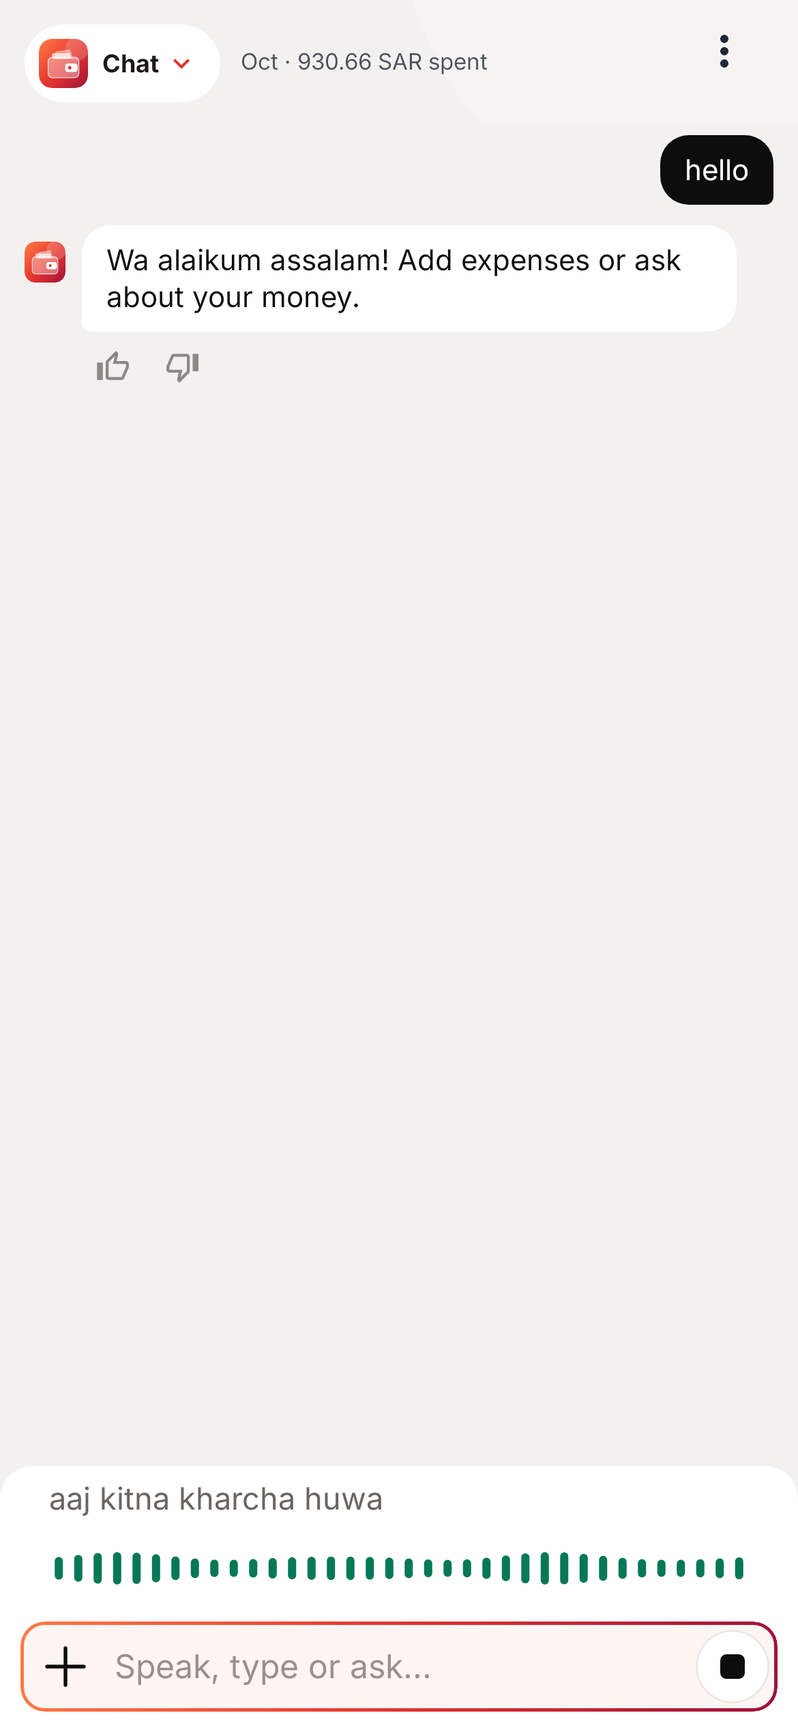
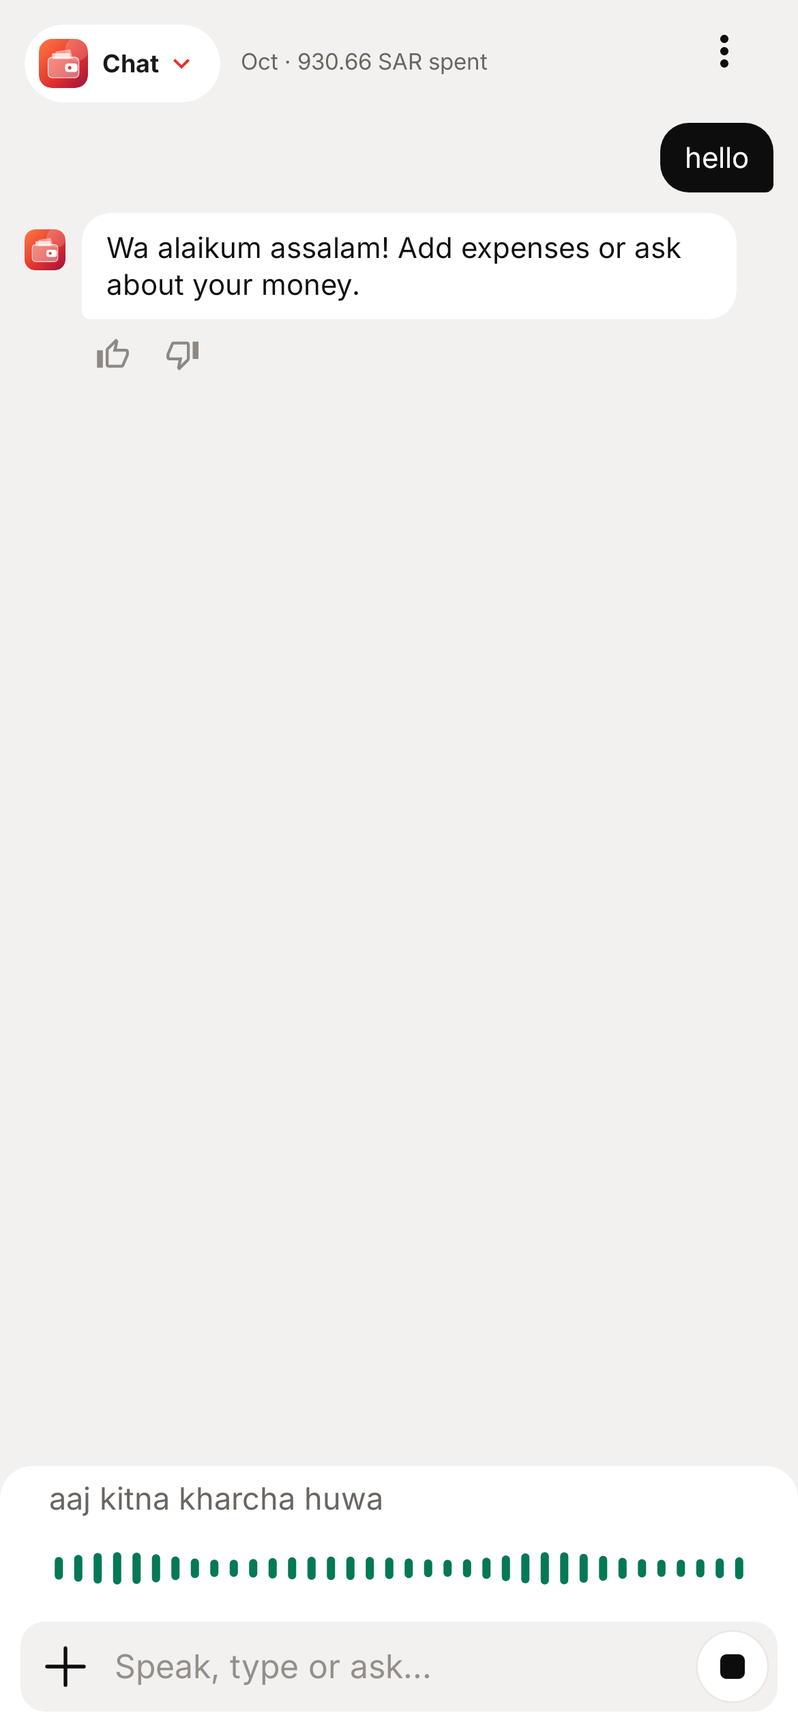
Sync with main (v390): continue from the latest release
Claude-Session: https://claude.ai/code/session_015NizBa7CYKAMR9mMWSWCL6

Changed region(s): [[0.1231, 0.0624, 0.9846, 0.2184], [0.0308, 0.1248, 0.0923, 0.1872], [0.9538, 0.936, 0.9846, 0.9984]]

diff --git a/app/src/main/java/com/bolkhata/app/MainActivity.kt b/app/src/main/java/com/bolkhata/app/MainActivity.kt
@@ -576,7 +576,7 @@ fun App(store: Store, dark: Boolean, onDark: (Boolean) -> Unit, themeName: Strin
         } else null
         val target = matched ?: if (st.keywords.isEmpty() && (latestRef || st.mentionsMoney)) candidates.firstOrNull() else null
         if (target == null) {
-            toast("I couldn't match that payment to an entry. Mention the item or person, e.g. \"payment for kachi eint not received\".")
+            toast("I couldn't match that payment to an entry. Mention the item or person, e.g. \"payment for the bricks not received\".")
             return true
         }
         val who = target.person.ifBlank { st.person }
@@ -636,6 +636,16 @@ fun App(store: Store, dark: Boolean, onDark: (Boolean) -> Unit, themeName: Strin
     val placeAfter = remember { arrayOf<Long?>(null) }
 
     fun handleTextSafely(text: String, clock: Understand.Clock? = null, original: String? = null) {
+        // "ghar ka bijli 3000": the entry goes to the book it names, without switching books.
+        Books.route(text, store.businesses())?.let { (id, rest) ->
+            if (id == store.business) { handleTextSafely(rest, clock, original); return }
+            val name = store.businesses().firstOrNull { it.first == id }?.second ?: "that book"
+            val found = Parser.parse(rest).entries
+            if (found.isEmpty()) { toast("Open $name to add this one"); return }
+            store.saveFor(id, found + store.loadFor(id))
+            toast("✓ Saved in $name: " + found.joinToString(", ") { understoodLine(it, currency) })
+            return
+        }
         // "Other wali entries theek karo": the app sorts them itself (the local engine only fixed the wording).
         if (Recat.isCommand(text)) { openRecat(); return }
         // A vague "change an entry" is not enough information to edit safely; ask what to change.
@@ -684,7 +694,7 @@ fun App(store: Store, dark: Boolean, onDark: (Boolean) -> Unit, themeName: Strin
         }
         if (Edits.looksLikeEdit(text) && entries.isNotEmpty()) {
             // The AI never changes entries itself: if the app's own reader couldn't place it, say so.
-            flash = Flash("Which entry? e.g. \"last entry 400 karo\" or \"aaj ki sari entries delete karo\"", Flash.Kind.ANSWER)
+            flash = Flash("Which entry? e.g. \"make the last entry 400\" or \"delete today's entries\"", Flash.Kind.ANSWER)
             return
         }
         val after = placeAfter[0].also { placeAfter[0] = null }
@@ -916,7 +926,7 @@ fun App(store: Store, dark: Boolean, onDark: (Boolean) -> Unit, themeName: Strin
                 }
             }
             "delete" -> {
-                if (q.isEmpty) return "Which entries? e.g. \"aaj ki sari entries delete karo\""
+                if (q.isEmpty) return "Which entries? e.g. \"delete today's entries\""
                 val hits = scoped(Query.select(entries, q))
                 if (hits.isEmpty()) return "Nothing found (${Query.label(q)})."
                 clarifyMultiple("delete", hits)?.let { return it }
@@ -928,7 +938,7 @@ fun App(store: Store, dark: Boolean, onDark: (Boolean) -> Unit, themeName: Strin
                 if (q.cats == setOf(Cat.OTHER) && (f.set["category"].isNullOrBlank() || f.set["category"].equals("expense", true))) {
                     openRecat(); return null
                 }
-                if (q.isEmpty) return "Which entry? e.g. \"laptop wali entry\""
+                if (q.isEmpty) return "Which entry? e.g. \"the laptop entry\""
                 if (f.set.isEmpty()) return runFixed(NativeChatEngine.Fixed("", "reread", "", "", q), said, inChat)
                 val hits = scoped(Query.select(entries, q))
                 if (hits.isEmpty()) return "Nothing found (${Query.label(q)})."
@@ -968,8 +978,8 @@ fun App(store: Store, dark: Boolean, onDark: (Boolean) -> Unit, themeName: Strin
                 }
                 // "Ye sari Abrar D360 ka khata bana do": these records become that khata's lene-dene, in date order,
                 // each one a loan or a repayment by the running balance (money out = they owe me, money in = back / I owe).
-                val name = f.set["person"]?.trim()?.takeIf { it.isNotEmpty() } ?: f.payer.ifBlank { return "Which khata? e.g. \"Abrar D360 ka khata\"" }
-                if (q.isEmpty) return "Which entries? e.g. \"d360 wali entries\""
+                val name = f.set["person"]?.trim()?.takeIf { it.isNotEmpty() } ?: f.payer.ifBlank { return "Which account? e.g. \"Hamid's account\"" }
+                if (q.isEmpty) return "Which entries? e.g. \"the D360 entries\""
                 val hits = scoped(Query.select(entries, q))
                     .filter { !it.person.equals(name, true) }.sortedWith(compareBy<Entry> { it.date }.thenBy { it.createdAt })
                 if (hits.isEmpty()) return "Nothing found (${Query.label(q)})."
@@ -993,10 +1003,10 @@ fun App(store: Store, dark: Boolean, onDark: (Boolean) -> Unit, themeName: Strin
             }
             "paid_by" -> {
                 // "Aaj jo khana khaya us ke paise Nadeem ne diye": find that meal and make it "Nadeem paid".
-                val payer = f.payer.ifBlank { return "Who paid? e.g. \"nadeem ne pay kiya\"" }
+                val payer = f.payer.ifBlank { return "Who paid? e.g. \"Nadeem paid\"" }
                 val q2 = Query.Filter(q.from, q.to, setOf(Type.KHARCHA), emptyList(), q.cats, q.items, q.min, q.max, q.last, q.noPeople, q.notItems, q.ids, q.createdFrom, q.createdTo)
                 if (q2.from == null && q2.to == null && q2.createdFrom == null && q2.createdTo == null &&
-                    q2.cats.isEmpty() && q2.items.isEmpty() && q2.ids.isEmpty()) return "Which one? e.g. \"aaj ka khana\""
+                    q2.cats.isEmpty() && q2.items.isEmpty() && q2.ids.isEmpty()) return "Which one? e.g. \"today's food\""
                 val hits = scoped(Query.select(entries, q2))
                 // The one that mentions the payer comes first ("Khana with nadeem").
                 val candidates = hits.filter { it.note.contains(payer, true) }.ifEmpty { hits }
@@ -1023,7 +1033,7 @@ fun App(store: Store, dark: Boolean, onDark: (Boolean) -> Unit, themeName: Strin
             }
             "reread" -> {
                 // "Galat hai, theek karo": the app reads each entry's own note again with what it knows now.
-                if (q.isEmpty) return "Which entry? e.g. \"laptop wali entry\""
+                if (q.isEmpty) return "Which entry? e.g. \"the laptop entry\""
                 val hits = scoped(Query.select(entries, q))
                 if (hits.isEmpty()) return "Nothing found (${Query.label(q)})."
                 clarifyMultiple("re-read", hits)?.let { return it }
@@ -1038,7 +1048,7 @@ fun App(store: Store, dark: Boolean, onDark: (Boolean) -> Unit, themeName: Strin
                         list[0].item == old.item && list[0].amount == old.amount && list[0].person == old.person
                     if (list.isEmpty() || same) null else old to list
                 }
-                if (swaps.isEmpty()) return "Looks right to the app. Say what should change, e.g. \"laptop nahi khana tha\"."
+                if (swaps.isEmpty()) return "Looks right to the app. Say what should change, e.g. \"it was food, not laptop\"."
                 val before = entries
                 val gone = swaps.map { it.first.id }.toSet()
                 save(swaps.flatMap { it.second } + entries.filter { it.id !in gone })
@@ -2179,7 +2189,8 @@ fun App(store: Store, dark: Boolean, onDark: (Boolean) -> Unit, themeName: Strin
                     entries, currency, onMenu = { openMenu() }, business = businessName, onBusiness = { pickingBusiness = true },
                     onOpen = { p -> partyOpen = p.name; activeLedgerPerson = p.name },
                     onReport = { reportStart = it; tab = Tab.REPORTS },
-                    onAdd = { trade = it }, onEdit = { editing = it }
+                    onAdd = { trade = it }, onEdit = { editing = it },
+                    made = { store.made(it) }, onSetMade = { m, qty -> store.setMade(m, qty) }
                 )
                 tab == Tab.CASHBOOK -> CashBookScreen(
                     entries, currency, onMenu = { openMenu() }, business = businessName, onBusiness = { pickingBusiness = true },
@@ -2901,7 +2912,9 @@ fun App(store: Store, dark: Boolean, onDark: (Boolean) -> Unit, themeName: Strin
             current = store.business, onBack = { pickingBusiness = false }, onPick = { open(it) },
             onAdd = { open(store.addBusiness(it)) },
             onRename = { id, n -> store.renameBusiness(id, n); if (id == store.business) businessName = n; businessTick++ },
-            onDelete = { id -> val wasOpen = id == store.business; store.deleteBusiness(id); if (wasOpen) open("") else businessTick++ }
+            onDelete = { id -> val wasOpen = id == store.business; store.deleteBusiness(id); if (wasOpen) open("") else businessTick++ },
+            totals = remember(businessTick, entries) { store.businesses().associate { (id, _) -> id to monthCash(if (id == store.business) entries else store.loadFor(id)) } },
+            currency = currency
         )
     }
 

diff --git a/app/src/main/java/com/bolkhata/app/Ui.kt b/app/src/main/java/com/bolkhata/app/Ui.kt
@@ -15,6 +15,7 @@ import androidx.compose.material.icons.outlined.Category
 import androidx.compose.material.icons.outlined.Chair
 import androidx.compose.material.icons.outlined.Handshake
 import androidx.compose.material.icons.outlined.Home
+import androidx.compose.material.icons.outlined.Factory
 import androidx.compose.material.icons.outlined.Inventory2
 import androidx.compose.material.icons.outlined.LocalGasStation
 import androidx.compose.material.icons.outlined.MedicalServices
@@ -43,6 +44,7 @@ import androidx.compose.ui.geometry.Offset
 import androidx.compose.ui.geometry.Size
 import androidx.compose.ui.graphics.Brush
 import androidx.compose.ui.graphics.Color
+import androidx.compose.ui.graphics.luminance
 import androidx.compose.ui.graphics.StrokeCap
 import androidx.compose.ui.graphics.drawscope.Stroke
 import androidx.compose.ui.graphics.drawscope.DrawScope
@@ -160,6 +162,7 @@ fun catColor(c: Cat): Color = when (c) {
     Cat.ASSETS -> Color(0xFF7C3AED)
     Cat.SALES -> Color(0xFF16A34A)
     Cat.STOCK -> Color(0xFF0891B2)
+    Cat.PRODUCTION -> Color(0xFFB45309)
     Cat.OTHER -> Color(0xFF94A3B8)
 }
 
@@ -195,7 +198,8 @@ fun BolTheme(dark: Boolean, content: @Composable () -> Unit) {
         onPrimaryContainer = Color(0xFFD1FAE5),
         secondaryContainer = Color(0xFF064E3B),
         onSecondaryContainer = Color(0xFFD1FAE5),
-        background = Color(0xFF0F0F0F),
+        // A slate-grey page, so the dark cards stand out on it.
+        background = Color(0xFF2A2F36),
         surface = Color(0xFF181818),
         surfaceVariant = Color(0xFF262626),
         onSurfaceVariant = Color(0xFFA3A3A3),
@@ -493,6 +497,7 @@ fun catIcon(c: Cat): ImageVector = when (c) {
     Cat.ASSETS -> Icons.Outlined.Sell
     Cat.SALES -> Icons.Outlined.ReceiptLong
     Cat.STOCK -> Icons.Outlined.Inventory2
+    Cat.PRODUCTION -> Icons.Outlined.Factory
     Cat.OTHER -> Icons.Outlined.Category
 }
 
@@ -669,7 +674,7 @@ fun GlassLogo(size: Dp, modifier: Modifier = Modifier, onBand: Boolean = false) 
 }
 
 /**
- * The glass edge of a field or chip, as in the mock-up: a thin border in the theme's glass colours over a faint
+ * The glass edge of a field, as in the mock-up: a thin border in the theme's glass colours over a faint
  * tint of them (light pink on Red).
  */
 @Composable
@@ -679,9 +684,11 @@ fun Modifier.glassEdge(shape: androidx.compose.ui.graphics.Shape, width: Dp = 1.
     return this.clip(shape).background(fill, shape).border(width, Brush.linearGradient(c), shape)
 }
 
-/** A chosen chip: filled with the theme's glass colours (white text on it). */
+/** The chat field and search box, as in the Claude app: a soft cream fill with a hairline warm-grey edge. */
 @Composable
-fun Modifier.glassFill(shape: androidx.compose.ui.graphics.Shape): Modifier {
-    val c = glassColors(LocalHeader.current)
-    return this.shadow(2.dp, shape).clip(shape).background(Brush.linearGradient(0f to c[0], 0.55f to c[1], 1f to c[2]), shape)
+fun Modifier.fieldEdge(shape: androidx.compose.ui.graphics.Shape): Modifier {
+    val light = MaterialTheme.colorScheme.background.luminance() > 0.5f
+    val fill = if (light) Color(0xFFFBFAF8) else MaterialTheme.colorScheme.surface
+    val edge = if (light) Color(0xFFDCD6CF) else MaterialTheme.colorScheme.outlineVariant
+    return this.clip(shape).background(fill, shape).border(1.dp, edge, shape)
 }

diff --git a/app/src/main/java/com/bolkhata/app/Parser.kt b/app/src/main/java/com/bolkhata/app/Parser.kt
@@ -23,6 +23,11 @@ object Parser {
     /** Checked in this order; the first rule that matches wins. */
     private val rules = listOf(
         r(Cat.GHAR, "Sent home", "ghar bhej", "bheje", "bheja", "bhejay", "bhejy", "bheji", "send home", "sent home", "بھیجے", "بھیجا"),
+        // A brick kiln's (or any maker's) costs go to Production, under the step they paid for.
+        r(Cat.PRODUCTION, "Moulding", "thapai", "thapaai", "thapayi", "تھپائی"),
+        r(Cat.PRODUCTION, "Loading", "bharai", "bharaai", "bharayi", "بھرائی"),
+        r(Cat.PRODUCTION, "Unloading", "nikasi", "nikaasi", "nakasi", "نکاسی"),
+        r(Cat.PRODUCTION, "Fuel", "koila", "koela", "koyla", "coal", "کوئلہ"),
 
         r(Cat.EDU, "School fees", "school fee", "school fees", "tuition", "tution", "admission"),
         r(Cat.EDU, "Books & study", "books", "kitab", "kitaab", "kitabein", "copy", "stationery", "course", "college", "university", "uniform", "school"),
@@ -655,7 +660,9 @@ object Parser {
         "ka", "ki", "ke", "ko", "se", "ne", "aaj", "kal", "liya", "liye", "lia", "diya", "diye", "khaya", "khai", "khaye",
         "kiya", "kiye", "hai", "hain", "tha", "the", "thay", "riyal", "riyals", "sar", "rupay", "rupees", "and", "for",
         "from", "with", "mein", "par", "pay", "wala", "wali", "wale", "dala", "dali", "bheja", "bheje", "liye", "mila",
-        "mile", "sath", "saath", "mera", "meri", "mere", "apna", "apni", "today", "yesterday", "date"
+        "mile", "sath", "saath", "mera", "meri", "mere", "apna", "apni", "today", "yesterday", "date",
+        // How it was paid and how much: never what was bought ("cash" once learned as car brakes made every cash entry Transport).
+        "cash", "naqad", "nakad", "naqd", "nakd", "lakh", "lac", "hazar", "hazaar", "thousand", "hundred", "sau"
     )
 
     /** Words from a note worth remembering for a category ("10 ki shawarma khai" -> ["shawarma"]). */
@@ -677,7 +684,8 @@ object Parser {
 
     private fun matchSpending(t: String, words: List<String>): Pair<Cat, String>? {
         // A name ("ali") learned by mistake earlier never decides what was bought.
-        words.firstNotNullOfOrNull { w -> if (Understand.isCommonName(w)) null else learned[w] }?.let { return it }
+        // Neither do payment and amount words learned before they were stopped ("cash", "lakh").
+        words.firstNotNullOfOrNull { w -> if (Understand.isCommonName(w) || w in learnStop) null else learned[w] }?.let { return it }
         if (repairWords.any { matches(it, t, words) }) {
             return when {
                 carWords.any { matches(it, t, words) } -> Cat.TRANSPORT to "Car repair"

diff --git a/app/src/main/java/com/bolkhata/app/Books.kt b/app/src/main/java/com/bolkhata/app/Books.kt
@@ -1,0 +1,39 @@
+package com.bolkhata.app
+
+/**
+ * One person often keeps several books (a kiln, the home, personal spending). "ghar ka bijli 3000" or
+ * "bhatte ka koila 50000" names the book, so the entry goes there without switching. Offline and exact:
+ * only a book's own name (any ending: bhatta / bhatte / bhatty) followed by ka / ki / ke / mein / me / main / for.
+ */
+object Books {
+    private val markers = setOf("ka", "ki", "ke", "kay", "mein", "me", "main", "men", "wala", "wali", "wale", "liye")
+
+    /** A word without its last vowels, so "bhatta", "bhatte" and "bhatty" all read "bhatt". */
+    private fun stem(w: String) = w.lowercase().trimEnd('a', 'e', 'i', 'y', 'o').ifEmpty { w.lowercase() }
+
+    /**
+     * The book [text] names, as (book id, the text without the name), or null when it names none.
+     * [books] are (id, name) as the app keeps them; a name of several words must all be said in order.
+     */
+    fun route(text: String, books: List<Pair<String, String>>): Pair<String, String>? {
+        val words = text.trim().split(Regex("""\s+""")).filter { it.isNotEmpty() }
+        if (words.size < 3) return null
+        for ((id, name) in books.sortedByDescending { it.second.length }) {
+            val nameWords = name.trim().split(Regex("""\s+""")).filter { it.isNotEmpty() }.map(::stem)
+            if (nameWords.isEmpty() || nameWords.joinToString("").length < 3) continue
+            for (i in 0..words.size - nameWords.size - 1) {
+                val said = words.subList(i, i + nameWords.size).map { stem(it.trim(',', '.', ':')) }
+                if (said != nameWords) continue
+                val next = words[i + nameWords.size].lowercase().trim(',', '.', ':')
+                val before = words.getOrNull(i - 1)?.lowercase()
+                if (next !in markers && before != "for") continue
+                val skipNext = if (next in markers) 1 else 0
+                val rest = (words.subList(0, if (before == "for") i - 1 else i) + words.subList(i + nameWords.size + skipNext, words.size))
+                    .joinToString(" ").trim()
+                if (rest.none { it.isDigit() }) return null
+                return id to rest
+            }
+        }
+        return null
+    }
+}

diff --git a/app/src/test/java/com/bolkhata/app/NativeChatEngineTest.kt b/app/src/test/java/com/bolkhata/app/NativeChatEngineTest.kt
@@ -781,3 +781,34 @@ class NativeChatEngineMoveCategoryTest {
         assertEquals(setOf("m1", "m2"), r2.filter.ids)
     }
 }
+
+class ParserCashWordTest {
+    @Test fun cashLearnedByMistakeNeverMakesAPaymentAnExpense() {
+        val before = Parser.learned
+        val people = Parser.knownPeople
+        try {
+            Parser.learned = mapOf("cash" to (Cat.TRANSPORT to "Brake shoe"), "lakh" to (Cat.TRANSPORT to "Brake shoe"))
+            Parser.knownPeople = setOf("ashraf")
+            for (t in listOf("ashraf ne 100000 cash diya", "ashraf ne 1 lakh cash diya")) {
+                val e = (Parser.parse(t).entries + Parser.parse(t).unclear).single()
+                assertEquals(t, 100000.0, e.amount, 0.001)
+                assertEquals(t, "Ashraf", e.person)
+                assertTrue(t, e.type == Type.LIYA || e.type == Type.WAPIS_MILA)
+            }
+        } finally {
+            Parser.learned = before
+            Parser.knownPeople = people
+        }
+    }
+}
+
+class ParserProductionTest {
+    @Test fun kilnCostsGoToProductionUnderTheirStep() {
+        for ((t, item) in listOf("koila 42 ton 420000" to "Fuel", "thapai 180000" to "Moulding", "bharai 60000" to "Loading", "nikasi 45000" to "Unloading")) {
+            val e = (Parser.parse(t).entries + Parser.parse(t).unclear).single()
+            assertEquals(t, Cat.PRODUCTION, e.category)
+            assertEquals(t, item, e.item)
+            assertEquals(t, Type.KHARCHA, e.type)
+        }
+    }
+}

diff --git a/app/src/main/java/com/bolkhata/app/Model.kt b/app/src/main/java/com/bolkhata/app/Model.kt
@@ -35,6 +35,8 @@ enum class Cat(val label: String, val icon: String) {
     ASSETS("Assets", "🏷"),
     SALES("Sales", "🧾"),
     STOCK("Purchases", "📦"),
+    /** What it costs to make goods (a brick kiln, a factory, a bakery): labour, fuel, raw material… */
+    PRODUCTION("Production", "🏭"),
     OTHER("Other", "📝")
 }
 
@@ -168,6 +170,10 @@ class Store(context: Context) {
         set(v) = prefs.edit().putString("business", v).apply()
 
     private fun scoped(key: String, id: String = business) = if (id.isEmpty()) key else "$key@$id"
+
+    /** How many units were made in a month (Production), for this business; 0 when not said. */
+    fun made(month: Int): Double = prefs.getString(scoped("made:$month"), null)?.toDoubleOrNull() ?: 0.0
+    fun setMade(month: Int, qty: Double) = prefs.edit().putString(scoped("made:$month"), qty.toString()).apply()
 
     private fun businessNames(): JSONObject = try {
         JSONObject(prefs.getString("businessNames", "{}") ?: "{}")
@@ -465,6 +471,9 @@ class Store(context: Context) {
     }
 
     fun save(list: List<Entry>) = write(scoped("entries"), list)
+
+    /** Saves the entries of another business (an entry said for it while this one is open). */
+    fun saveFor(id: String, list: List<Entry>) = write(scoped("entries", id), list)
 
     /** Saving happens on one background thread, in order, so the screen never waits for it. */
     private val saver = java.util.concurrent.Executors.newSingleThreadExecutor()

diff --git a/app/src/test/java/com/bolkhata/app/BooksTest.kt b/app/src/test/java/com/bolkhata/app/BooksTest.kt
@@ -1,0 +1,23 @@
+package com.bolkhata.app
+
+import org.junit.Assert.assertEquals
+import org.junit.Assert.assertNull
+import org.junit.Test
+
+/** An entry that names a book goes to that book. */
+class BooksTest {
+    private val books = listOf("" to "My business", "b1" to "Bhatta", "b2" to "Ghar", "b3" to "Personal")
+
+    @Test fun theNamedBookGetsTheEntry() {
+        assertEquals("b2" to "bijli 3000", Books.route("ghar ka bijli 3000", books))
+        assertEquals("b1" to "koila 50000", Books.route("bhatte ka koila 50000", books))
+        assertEquals("b1" to "koila 50000", Books.route("koila 50000 bhatty mein", books))
+        assertEquals("b3" to "shoes 200", Books.route("for personal shoes 200", books))
+    }
+
+    @Test fun noBookNamedNoRoute() {
+        assertNull(Books.route("ghar bheje 5000", books))
+        assertNull(Books.route("petrol 50", books))
+        assertNull(Books.route("ghar ka khata kholo", books))
+    }
+}

diff --git a/app/src/main/java/com/bolkhata/app/AppParts.kt b/app/src/main/java/com/bolkhata/app/AppParts.kt
@@ -84,7 +84,7 @@ internal fun InputBar(
         if (talking) VoicePanel(voice!!)
         Box(Modifier.fillMaxWidth().then(if (navPad) Modifier.navigationBarsPadding() else Modifier)
             .padding(start = 10.dp, end = 10.dp, top = 8.dp, bottom = if (navPad) 8.dp else 0.dp)) {
-            Surface(shape = RoundedCornerShape(12.dp), color = Color.Transparent, modifier = Modifier.fillMaxWidth().glassEdge(RoundedCornerShape(12.dp))) {
+            Surface(shape = RoundedCornerShape(12.dp), color = Color.Transparent, modifier = Modifier.fillMaxWidth().fieldEdge(RoundedCornerShape(12.dp))) {
                 Row(Modifier.heightIn(min = 44.dp).padding(start = 2.dp, end = 4.dp), verticalAlignment = Alignment.CenterVertically) {
                     if (onAttach != null) {
                         Box(Modifier.size(40.dp).clip(CircleShape).clickable(onClick = onAttach), contentAlignment = Alignment.Center) {

diff --git a/app/src/main/java/com/bolkhata/app/ChatScreen.kt b/app/src/main/java/com/bolkhata/app/ChatScreen.kt
@@ -493,7 +493,9 @@ private fun FollowChips(asks: List<String>, onPick: (String) -> Unit) {
         asks.forEach { a ->
             Text(
                 a, fontSize = 10.5.sp, fontWeight = FontWeight.SemiBold,
-                modifier = Modifier.glassEdge(RoundedCornerShape(14.dp)).clickable { onPick(a) }.padding(horizontal = 10.dp, vertical = 5.dp)
+                modifier = Modifier.clip(RoundedCornerShape(14.dp)).background(MaterialTheme.colorScheme.surface)
+                    .border(1.dp, MaterialTheme.colorScheme.onSurfaceVariant.copy(alpha = 0.18f), RoundedCornerShape(14.dp))
+                    .clickable { onPick(a) }.padding(horizontal = 10.dp, vertical = 5.dp)
             )
         }
     }

diff --git a/app/src/main/java/com/bolkhata/app/NativeChatEngine.kt b/app/src/main/java/com/bolkhata/app/NativeChatEngine.kt
@@ -469,7 +469,7 @@ object NativeChatEngine {
                 "I can't see entry number $n in the last list (it has ${rows.size}). Which one do you mean?") }
             pointing.containsMatchIn(rest) && rest.none { it.isDigit() } ->
                 if (rows.size > 1 && !has(tokens(rest), plural))
-                    return chat("Which one of the ${rows.size}? Say its number, e.g. \"2 no entry\", or say \"sab\".")
+                    return chat("Which one of the ${rows.size}? Say its number, e.g. \"number 2\", or say \"all\".")
                 else rows
             // "2000 aur 5000 wali entry": the shown rows with those amounts.
             else -> {

diff --git a/app/src/main/java/com/bolkhata/app/Ledger.kt b/app/src/main/java/com/bolkhata/app/Ledger.kt
@@ -210,7 +210,8 @@ val defaultSubs: Map<Cat, List<String>> = mapOf(
     Cat.FEES to listOf("Iqama", "Bank fee", "Visa"),
     Cat.SHOPPING to listOf("Clothes", "Electronics"),
     Cat.EDU to listOf("School fees", "Books"),
-    Cat.RENT to listOf("House rent")
+    Cat.RENT to listOf("House rent"),
+    Cat.PRODUCTION to listOf("Labour", "Raw material", "Fuel", "Loading", "Unloading", "Office", "Salary", "Transport")
 )
 
 /** A category's sub-categories: the ready ones first, then names already used there at least twice. */
